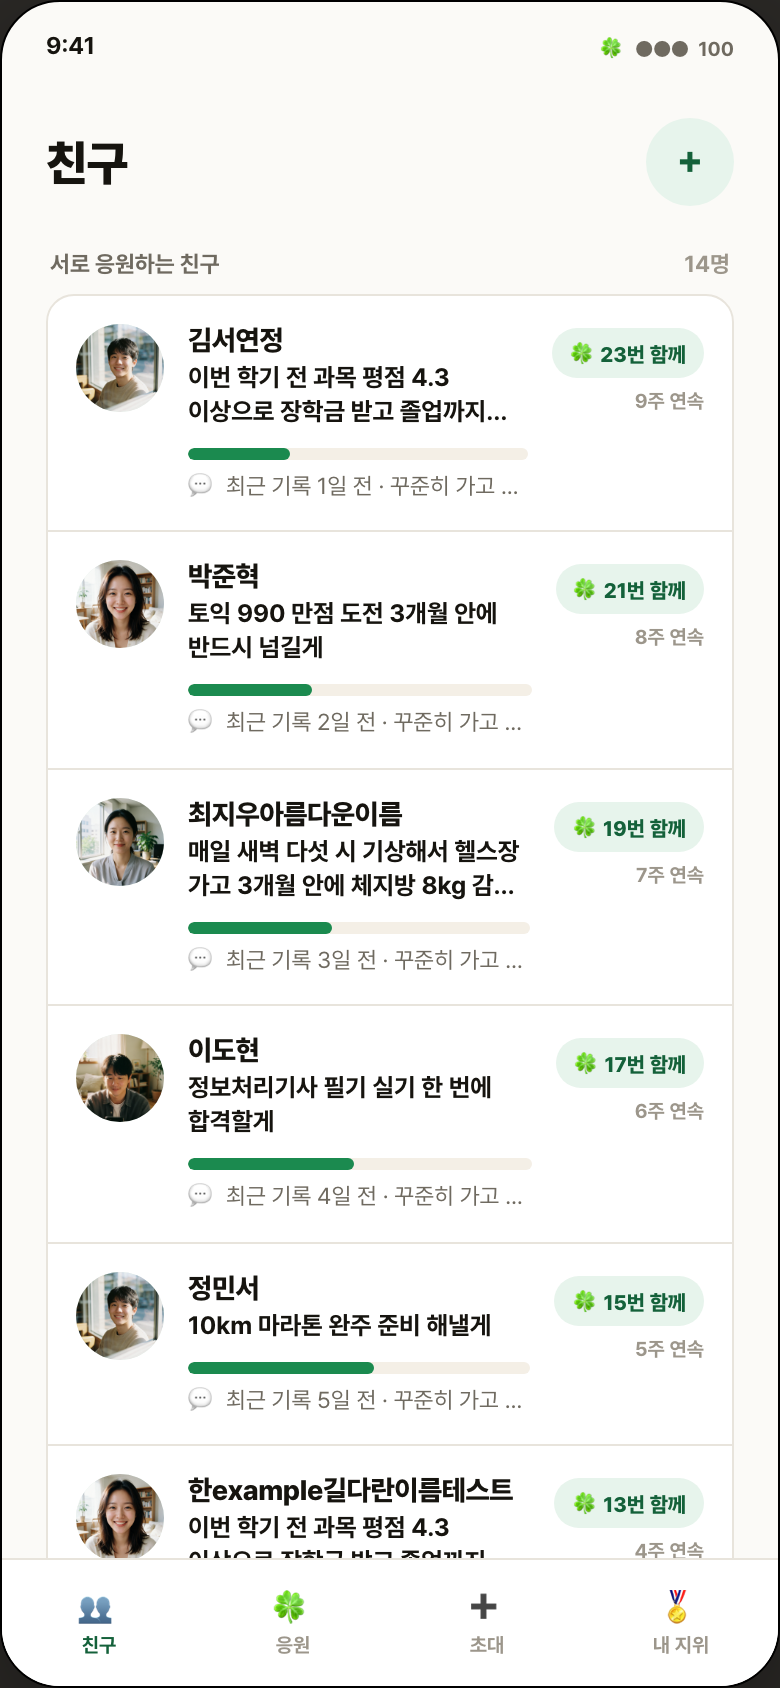
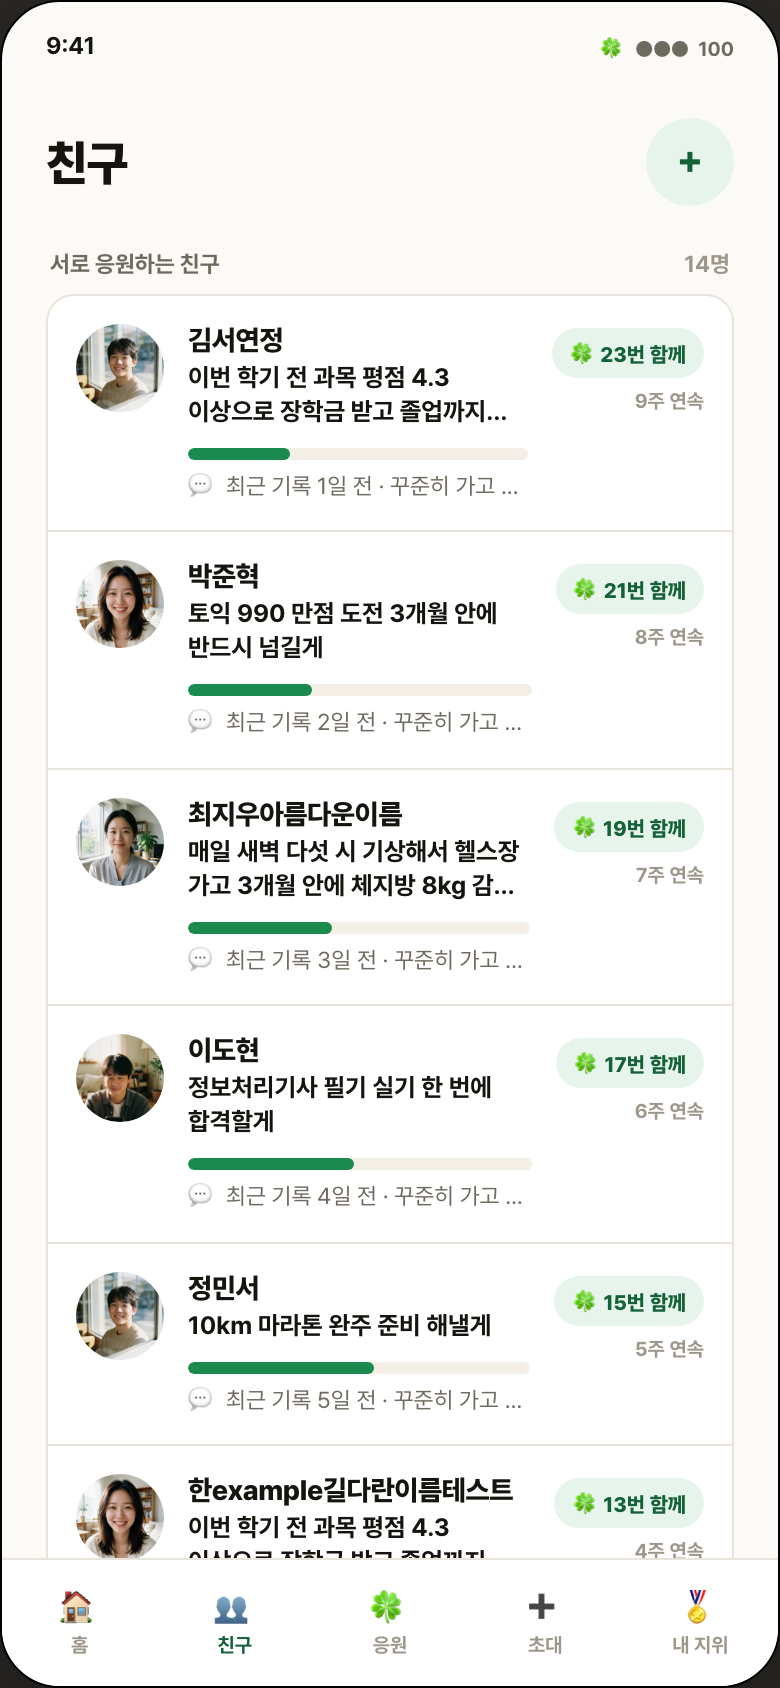
design(v2): 기존 홈 실프레임 추가 + 하단탭 홈 진입(6화면 공유셸) + clean-frame 8종 재추출 (회장 기존화면·홈탭 지적)

diff --git a/docs/design/prototypes/social-viral-loop-v2-opus48.html b/docs/design/prototypes/social-viral-loop-v2-opus48.html
@@ -316,6 +316,25 @@
   .hero-portrait .hp-name{position:absolute;left:14px;bottom:12px;color:#fff;font-size:14px;font-weight:800;text-shadow:0 2px 8px rgba(0,0,0,.5);}
   .supporter-face{width:52px;height:52px;border-radius:var(--r-full);overflow:hidden;flex:0 0 auto;border:2px solid #fff;box-shadow:0 3px 10px rgba(0,0,0,.12);}
   .supporter-face img{width:100%;height:100%;object-fit:cover;object-position:center 28%;}
+
+  /* ── 홈(내 목표) = 실배포 (receiver)/me 계승 ── */
+  .home-hi{font-size:12.5px;font-weight:700;color:var(--muted);margin:2px 0 2px;}
+  .home-hi b{color:var(--ink);}
+  .balance{display:flex;align-items:center;justify-content:space-between;background:var(--clover-soft);border:1px solid #cfe8d8;border-radius:var(--r-md);padding:14px 16px;margin-top:8px;}
+  .balance .bl{font-size:11px;font-weight:700;color:var(--clover-ink);}
+  .balance .bv{font-size:20px;font-weight:900;color:var(--clover-ink);letter-spacing:-.4px;display:flex;align-items:center;gap:6px;}
+  .balance .bcta{font-size:11px;font-weight:800;color:var(--clover-ink);background:#fff;border:1px solid var(--clover);border-radius:var(--r-full);padding:7px 12px;}
+  .goalcard{background:var(--surface);border:1px solid var(--line);border-radius:var(--r-md);padding:15px 16px;margin-top:11px;}
+  .goalcard .gtop{display:flex;align-items:center;gap:7px;margin-bottom:8px;}
+  .chip{font-size:10.5px;font-weight:800;padding:4px 9px;border-radius:var(--r-full);white-space:nowrap;}
+  .chip.dday{background:var(--warm);color:var(--amber-ink);}
+  .chip.status{background:var(--clover-soft);color:var(--clover-ink);}
+  .goalcard h3{font-size:16px;font-weight:800;letter-spacing:-.3px;color:var(--ink);line-height:1.35;}
+  .goalcard .greason{font-size:11.5px;color:var(--muted);margin-top:5px;line-height:1.5;word-break:keep-all;}
+  .goalcard .gfoot{display:flex;align-items:center;justify-content:space-between;margin-top:13px;padding-top:12px;border-top:1px solid var(--line);}
+  .goalcard .gcheer{display:flex;align-items:center;gap:5px;font-size:12px;font-weight:800;color:var(--clover-ink);}
+  .goalcard .gview{font-size:12px;font-weight:800;color:#fff;background:var(--clover);border:none;border-radius:var(--r-full);padding:9px 15px;cursor:pointer;box-shadow:0 4px 12px rgba(27,138,79,.2);}
+  .home-past{font-size:11px;font-weight:700;color:var(--faint);margin:20px 2px 2px;}
 </style>
 </head>
 <body>
@@ -326,12 +345,12 @@
   <div class="rsub">소셜 바이럴 루프가 <b>기존 배포 화면</b> 위에 어떻게 얹히는지. 지금 보는 화면이 초록, 신규 화면은 주황 점선.</div>
 
   <div class="fgroup">기존 배포 화면 (web/src/app)</div>
-  <div class="fnode" data-loop="_home">
-    <span class="fi">🏠</span><span class="fl">홈 · 하단탭 셸
+  <div class="fnode" data-loop="home" onclick="go('home')">
+    <span class="fi">🏠</span><span class="fl">홈 · 내 목표 <span style="font-size:8px;color:#8fbfa6;font-weight:800">실화면 계승</span>
       <span class="fmeta">
-        <span class="ml"><span class="mk">경로</span><span class="mv"><code>web/src/app/(receiver)/page.tsx</code></span></span>
-        <span class="ml"><span class="mk">진입</span><span class="mv">앱 실행 · 로그인 후 랜딩</span></span>
-        <span class="ml"><span class="mk">수정</span><span class="mv">홈: 하단탭에 친구·응원·내지위 진입점 3개 추가</span></span>
+        <span class="ml"><span class="mk">경로</span><span class="mv"><code>(receiver)/me</code> · 배포됨</span></span>
+        <span class="ml"><span class="mk">진입</span><span class="mv">앱 실행 · 로그인 후 랜딩 · 모든 화면 하단탭 홈</span></span>
+        <span class="ml"><span class="mk">수정</span><span class="mv">홈: 하단탭에 친구·응원·초대·내지위 진입점 4개 신설</span></span>
       </span>
     </span>
   </div>
@@ -412,6 +431,7 @@
   <h1><span class="dot">🍀</span> 해낼게 v2 · 소셜 바이럴 루프 <span class="ver">v2 · 390×844 네이티브앱 · 아이데이션 (왼쪽 레일·Higgsfield 실사 반영)</span></h1>
   <div class="loop">
     <span>바이럴 루프</span>
+    <span class="node" data-loop="home">🏠 홈(계승)</span><span class="arr">→</span>
     <span class="node" data-loop="connect">① 초대·연결</span><span class="arr">→</span>
     <span class="node" data-loop="friends">② 친구목록(연결감)</span><span class="arr">→</span>
     <span class="node" data-loop="status">③ 응원자 지위(지속)</span><span class="arr">→</span>
@@ -421,7 +441,8 @@
   <div class="row">
     <div class="grp">
       <span class="lbl">화면</span>
-      <button class="nav on" data-s="connect">1 · 초대·연결</button>
+      <button class="nav on" data-s="home">🏠 홈(계승)</button>
+      <button class="nav" data-s="connect">1 · 초대·연결</button>
       <button class="nav" data-s="friends">2 · 친구목록</button>
       <button class="nav" data-s="status">3 · 응원자 지위</button>
       <button class="nav" data-s="belong">4 · 소속감 큐</button>
@@ -440,8 +461,68 @@
 
 <div class="stage">
 
+  <!-- ══════════ 화면 0 · 홈 (기존 배포 (receiver)/me 계승) ══════════ -->
+  <section class="screen active" id="home">
+    <div class="frame">
+      <div class="statusbar"><span>9:41</span><span class="dots">🍀 &nbsp;●●● &nbsp;100</span></div>
+      <div class="app"><div class="pad">
+        <div class="head">
+          <div class="ttl">내 목표</div>
+          <div class="brand">해낼<span class="d">게</span></div>
+        </div>
+        <div class="home-hi">서연님, <b>3개</b>의 목표를 향해 가는 중이에요</div>
+
+        <div class="balance">
+          <div>
+            <div class="bl">모은 클로버</div>
+            <div class="bv">🍀 128개</div>
+          </div>
+          <button class="bcta" onclick="go('status')">내 지위 보기 ›</button>
+        </div>
+
+        <div class="goalcard">
+          <div class="gtop"><span class="chip dday">D-12</span><span class="chip status">진행 중</span></div>
+          <h3>토익 900 넘길게</h3>
+          <div class="greason">교환학생 지원 마감 전에 점수를 만들어야 해서.</div>
+          <div class="gfoot">
+            <span class="gcheer">🍀 응원 23명</span>
+            <button class="gview" onclick="go('dopamine')">워드맵 보기</button>
+          </div>
+        </div>
+
+        <div class="goalcard">
+          <div class="gtop"><span class="chip dday">D-40</span><span class="chip status">진행 중</span></div>
+          <h3>주 3회 러닝 습관 만들게</h3>
+          <div class="greason">작년에 세 번 실패해서 이번엔 친구랑 같이 한다.</div>
+          <div class="gfoot">
+            <span class="gcheer">🍀 응원 8명</span>
+            <button class="gview" onclick="go('dopamine')">워드맵 보기</button>
+          </div>
+        </div>
+
+        <div class="home-past">지난 목표</div>
+        <div class="goalcard" style="opacity:.72">
+          <div class="gtop"><span class="chip status" style="background:var(--warm);color:var(--muted)">완료</span></div>
+          <h3>2급 자격증 따낼게</h3>
+          <div class="gfoot">
+            <span class="gcheer">🍀 응원 15명</span>
+            <button class="gview" style="background:var(--faint);box-shadow:none" onclick="go('dopamine')">기록 보기</button>
+          </div>
+        </div>
+      </div></div>
+      <div class="tabbar">
+        <a class="on"><span class="ic">🏠</span>홈</a>
+        <a onclick="go('friends')"><span class="ic">👥</span>친구</a>
+        <a onclick="go('dopamine')"><span class="ic">🍀</span>응원</a>
+        <a onclick="go('connect')"><span class="ic">➕</span>초대</a>
+        <a onclick="go('status')"><span class="ic">🏅</span>내 지위</a>
+      </div>
+    </div>
+    <div class="review" data-review="home"></div>
+  </section>
+
   <!-- ══════════ 화면 1 · 초대·연결 ══════════ -->
-  <section class="screen active" id="connect">
+  <section class="screen" id="connect">
     <div class="frame">
       <div class="statusbar"><span>9:41</span><span class="dots">🍀 &nbsp;●●● &nbsp;100</span></div>
       <div class="app"><div class="pad">
@@ -483,6 +564,7 @@
         <div class="safenote"><i>🔒</i><span>연락처를 통째로 읽지 않습니다. 내가 직접 고른 사람에게 카카오·링크로만 초대해요.</span></div>
       </div></div>
       <div class="tabbar">
+        <a onclick="go('home')"><span class="ic">🏠</span>홈</a>
         <a onclick="go('friends')"><span class="ic">👥</span>친구</a>
         <a onclick="go('dopamine')"><span class="ic">🍀</span>응원</a>
         <a class="on"><span class="ic">➕</span>초대</a>
@@ -571,6 +653,7 @@
         </div>
       </div></div>
       <div class="tabbar">
+        <a onclick="go('home')"><span class="ic">🏠</span>홈</a>
         <a class="on"><span class="ic">👥</span>친구</a>
         <a onclick="go('dopamine')"><span class="ic">🍀</span>응원</a>
         <a onclick="go('connect')"><span class="ic">➕</span>초대</a>
@@ -635,6 +718,7 @@
         </div>
       </div></div>
       <div class="tabbar">
+        <a onclick="go('home')"><span class="ic">🏠</span>홈</a>
         <a onclick="go('friends')"><span class="ic">👥</span>친구</a>
         <a onclick="go('dopamine')"><span class="ic">🍀</span>응원</a>
         <a onclick="go('connect')"><span class="ic">➕</span>초대</a>
@@ -696,6 +780,7 @@
         </div>
       </div></div>
       <div class="tabbar">
+        <a onclick="go('home')"><span class="ic">🏠</span>홈</a>
         <a class="on" onclick="go('friends')"><span class="ic">👥</span>친구</a>
         <a onclick="go('dopamine')"><span class="ic">🍀</span>응원</a>
         <a onclick="go('connect')"><span class="ic">➕</span>초대</a>
@@ -741,6 +826,7 @@
         <div class="guest-feed"><i>✨</i><span id="guestFeed">네 응원이 여기 쌓였어요. 로그인하면 이 기록이 "내가 응원한 목표"에 남아요.</span></div>
       </div></div>
       <div class="tabbar">
+        <a onclick="go('home')"><span class="ic">🏠</span>홈</a>
         <a onclick="go('friends')"><span class="ic">👥</span>친구</a>
         <a class="on"><span class="ic">🍀</span>응원</a>
         <a onclick="go('connect')"><span class="ic">➕</span>초대</a>
@@ -755,7 +841,7 @@
 <div class="stamp">
   🏷 STAMP | line: core | 생성: 2026-09-23 07:40 KST | model: claude-opus-4-8 | agent: product-designer | 근거: globals.css·blueprint-v1.0.0·idea-ledger·결정.md D-003/D-009/D-017·friends-invite-v1<br>
   <b>STAMP</b> line=core · social-viral-loop-v2-opus48.html · 생성 2026-09-23 07:40 KST · model claude-opus-4-8 · agent product-designer<br>
-  <b>v2 변경</b> ①왼쪽 전역 플로우맵 고정 레일 — 각 노드에 라우터 경로·진입 화면·신규/수정 diff를 레일 위 글자로 표기(신규↔기존 배포 화면 화살표 연결) ②인물 자리 Higgsfield 실사(seedream_v5_pro) 5종 삽입 — 이모지·이니셜 전량 제거 ③화면별 우측 검수 패널에 v2 개정 변경점(chg) 표출 ④아트보드 안 설계·원칙 주석(도파민 원칙·열린결정 배지) 전량 제거 → 검수 패널로 이관(아트보드 주석 0)<br>
+  <b>v2 변경</b> ①왼쪽 전역 플로우맵 고정 레일 — 각 노드에 라우터 경로·진입 화면·신규/수정 diff를 레일 위 글자로 표기(신규↔기존 배포 화면 화살표 연결) ②인물 자리 Higgsfield 실사(seedream_v5_pro) 5종 삽입 — 이모지·이니셜 전량 제거 ③화면별 우측 검수 패널에 v2 개정 변경점(chg) 표출 ④아트보드 안 설계·원칙 주석(도파민 원칙·열린결정 배지) 전량 제거 → 검수 패널로 이관(아트보드 주석 0) ⑤기존 배포 홈((receiver)/me 다중목표) 실제 디바이스 프레임으로 계승 추가 + 하단 탭바에 홈 진입 신설(전 화면 go('home') 실동작 — 신규 화면에서 기존 홈 복귀)<br>
   <b>skills</b> design-consultation(방향·토큰 상속 확인) · design-html(hi-fi 목업) · design-review(headless 렌더·클릭·상태토글 QA) · Higgsfield CLI(seedream_v5_pro 실사)<br>
   <b>토큰</b> web/src/app/globals.css 실독(clover #1B8A4F · warm #F4EFE6 · radius 12/14/20 · Pretendard) — 진실원 계승<br>
   <b>근거</b> haenael-v2-blueprint-v1.0.0-opus48.md(§3.4·§5·§6) · idea-ledger #11·#12·#13·2026-09-15·2026-09-21 · one-thing.md · 결정.md D-003·D-009 · 계승 프로토 friends-invite-v1·landing-wordmap-i18n-v2<br>
@@ -765,6 +851,17 @@
 <script>
   // ── 화면별 검수 패널 데이터 (심리·벤치·계승·PRD 4요소 + chg 신규표시 + flow 진입/이탈) ──
   const REVIEW = {
+    home: {
+      psych: '기준점(anchoring)+진행 가시화. 기존 배포 홈(내 목표 목록)을 그대로 계승해 회장이 "무엇이 바뀌었나"를 바로 대조하게 한다. 목표 카드·클로버 잔액·워드맵 보기 CTA는 실배포 그대로, 바뀐 건 하단탭 진입점뿐.',
+      bench: '토스 홈(잔액+할 일 카드) · 당근 나의 당근 · Strava 홈 피드. "잔액 요약 + 진행 카드 리스트 + 단일 CTA" 구조 차용. 이 홈은 신규 발명이 아니라 실배포 (receiver)/me 계승.',
+      inherit: '계승: 실배포 web/src/app/(receiver)/me/page.tsx — 다중 목표(진행 중 최대 3 + 지난 목표), 목표 카드(제목·D-day·상태칩·응원 인원 클로버·"워드맵 보기"→/wordmap/{goalId}), 클로버 잔액. 신규: 하단탭에 친구·응원·초대·내지위 4개 진입점 신설(이 홈이 v2 루프의 관문).',
+      prd: '실배포 계승 화면. 다중목표=설계 §4.4~4.6. v2 변경분(하단탭 신규 진입점)만 이번 스코프. PRD 정본은 기존 receiver-home 유지 + 소셜 진입점 plan 승격 대기.',
+      chg: [
+        {w:'<b>기존 배포 홈을 실제 디바이스 프레임으로 프로토타입에 추가</b> — 레일 노드로만 두지 않고 실화면 계승. 홈에서 v2가 무엇을 바꿨는지(하단탭 신규 진입점)가 눈에 보임.', fb:'회장: "기존 화면도 보여주어서 어떻게 변경됐거나 흐름이 연결되는지 보여줘야지"'},
+        {w:'<b>하단 탭바에 홈 진입 추가</b> — 전 화면 공유 셸에 홈 탭 신설. 어느 신규 화면에서든 하단탭 홈으로 기존 홈 복귀 가능(go(\'home\') 실동작).', fb:'회장: "하단 탭에서는 홈으로 어떻게 가"'}
+      ],
+      flow: [['진입','앱 실행 · 로그인 후 랜딩 · 모든 화면 하단탭 "홈"'],['이탈','목표 카드 "워드맵 보기" → 도파민(워드맵) · 하단탭 → 친구/초대/응원/내지위'],['핵심','v2 루프의 관문 — 여기 하단탭 신규 진입점에서 모든 소셜 화면이 갈라진다']]
+    },
     connect: {
       psych: '실행의도+상호성. "초대 → 서로 응원하는 사이"라는 관계 프레임으로 초대 동기를 이타(친구 목표 응원)에 건다. 카카오 말풍선 실물 미리보기로 "보내면 이렇게 보인다" 불확실성을 제거(Zeigarnik 대신 예측가능성).',
       bench: '카카오톡 초대 공유(딥링크 카드) · Strava 팔로우 초대 · Duolingo 친구 초대 스트릭. 셋 다 "연락처 스크래핑"이 아니라 공유 카드 방식 — 이 톤을 차용, 스크래핑은 버림.',
@@ -949,8 +1046,8 @@
   }
 
   // 초기 렌더
-  document.querySelectorAll('.flowrail .fnode').forEach(n=>n.classList.toggle('on', n.dataset.loop==='connect'));
-  renderReview('connect');
+  document.querySelectorAll('.flowrail .fnode').forEach(n=>n.classList.toggle('on', n.dataset.loop==='home'));
+  renderReview('home');
 </script>
 </body>
 </html>
